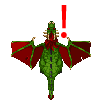
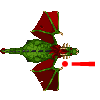
Behavior Tree WIP

diff --git a/esqueleto/behavior_tree.cpp b/esqueleto/behavior_tree.cpp
@@ -6,12 +6,37 @@
 #include "is_close.h"
 #include "pursue.h"
 #include "idle.h"
+#include "attack.h"
+#include "check_hit.h"
+#include "hit.h"
+#include "is_dead.h"
+#include "death.h"
 
 void BehaviorTree::load() {
 	m_rootBehavior = new Selector(this);
-	Sequence* closeBranch = new Sequence(this);
-	closeBranch->AddBehavior(new IsClose(this, 200.0f));
-	closeBranch->AddBehavior(new Pursue(this));
+
+	Sequence* isDeadBranch = new Sequence(this);
+	isDeadBranch->AddBehavior(new IsDead(this));
+	isDeadBranch->AddBehavior(new Death(this));
+	
+	Sequence* receiveHitBranch = new Sequence(this);
+	receiveHitBranch->AddBehavior(new CheckHit(this));
+	receiveHitBranch->AddBehavior(new Hit(this));
+
+	Selector* closeBranch = new Selector(this);
+	Sequence* attackBranch = new Sequence(this);
+	Sequence* chaseBranch = new Sequence(this);
+	closeBranch->AddBehavior(attackBranch);
+	closeBranch->AddBehavior(chaseBranch);
+
+	attackBranch->AddBehavior(new IsClose(this, 50.0f));
+	attackBranch->AddBehavior(new Attack(this));
+
+	chaseBranch->AddBehavior(new IsClose(this, 200.0f));
+	chaseBranch->AddBehavior(new Pursue(this));
+
+	m_rootBehavior->AddBehavior(isDeadBranch);
+	m_rootBehavior->AddBehavior(receiveHitBranch);
 	m_rootBehavior->AddBehavior(closeBranch);
 	m_rootBehavior->AddBehavior(new Idle(this));
 

diff --git a/esqueleto/character.cpp b/esqueleto/character.cpp
@@ -12,7 +12,7 @@
 #include "stateMachine.h"
 #include "behavior_tree.h"
 
-Character::Character() : mLinearVelocity(0.0f, 0.0f), mAngularVelocity(0.0f)
+Character::Character() : mLinearVelocity(0.0f, 0.0f), mAngularVelocity(0.0f), m_isHit(false), m_life(5.0f)
 {
 	RTTI_BEGIN
 		RTTI_EXTEND (MOAIEntity2D)
@@ -87,7 +87,7 @@ void Character::OnUpdate(float step)
 
 	if (mEnemyPosition.DistSqrd(GetLoc()) < 400.0f)
 	{
-		SetLoc(USVec2D(0,0));
+		//SetLoc(USVec2D(0,0));
 	}
 
 
@@ -134,6 +134,7 @@ void Character::RegisterLuaFuncs(MOAILuaState& state)
 	luaL_Reg regTable [] = {
 		{ "setLinearVel",			_setLinearVel},
 		{ "setAngularVel",			_setAngularVel},
+		{ "checkHit",			    _checkHit},
 		{ NULL, NULL }
 	};
 
@@ -156,6 +157,27 @@ int Character::_setAngularVel(lua_State* L)
 	
 	float angle = state.GetValue<float>(2, 0.0f);
 	self->SetAngularVelocity(angle);
+
+	return 0;
+}
+
+int Character::_checkHit(lua_State* L)
+{
+	MOAI_LUA_SETUP(Character, "U")
+
+	float pX = state.GetValue<float>(2, 0.0f);
+	float pY = state.GetValue<float>(3, 0.0f);
+	
+	float selfX = self->GetLoc().mX;
+	float selfY = self->GetLoc().mY;
+
+	if (pX > selfX - 32
+		&& pX < selfX + 32
+		&& pY > selfY - 32
+		&& pY < selfY + 32)
+	{
+		self->m_isHit = true;
+	}
 
 	return 0;
 }

diff --git a/esqueleto/character.h b/esqueleto/character.h
@@ -29,6 +29,10 @@ public:
 	float GetAngularVelocity() const { return mAngularVelocity;}
 	USVec2D GetEnemyPosition() const { return mEnemyPosition; }
 	float GetEnemySpeed() const { return mEnemySpeed; }
+	bool GetIsHit() const { return m_isHit; }
+	void SetIsHit(bool value) { m_isHit = value; }
+	float GetLife() const { return m_life; }
+	void SetLife(float value) { m_life = value; }
 
 	void AddSteering(BaseSteering* steering) { mSteerings.push_back(steering); }
 	void RemoveSteering(BaseSteering* steering) { auto it = std::find(mSteerings.begin(), mSteerings.end(), steering); if (it != mSteerings.end()) mSteerings.erase(it); }
@@ -49,6 +53,8 @@ protected:
 private:
 	USVec2D mEnemyPosition;
 	float mEnemySpeed;
+	bool m_isHit;
+	float m_life;
 	
 	// Lua configuration
 public:
@@ -56,6 +62,7 @@ public:
 private:
 	static int _setLinearVel(lua_State* L);
 	static int _setAngularVel(lua_State* L);
+	static int _checkHit(lua_State* L);
 };
 
 #endif

diff --git a/esqueleto/hit.cpp b/esqueleto/hit.cpp
@@ -1,0 +1,34 @@
+#include <stdafx.h>
+#include "hit.h"
+#include "character.h"
+#include "behavior_tree.h"
+
+Status Hit::update(float step)
+{
+	m_owner->getCharacter()->SetLinearVelocity(0.0f, 0.0f);
+	m_owner->getCharacter()->SetAngularVelocity(0.0f);
+	m_owner->getCharacter()->SetImage(4);
+	m_hitTimer += step;
+	if (m_hitTimer >= 0.5f)
+	{
+		return eSuccess;
+	}
+	else
+	{
+		return eRunning;
+	}
+}
+
+void Hit::onEnter()
+{
+	m_hitTimer = 0;
+
+}
+
+void Hit::onExit()
+{
+	m_owner->getCharacter()->SetImage(0);
+
+	m_owner->getCharacter()->SetIsHit(false);
+	m_owner->getCharacter()->SetLife(m_owner->getCharacter()->GetLife() - 1.0f);
+}

diff --git a/esqueleto/death.cpp b/esqueleto/death.cpp
@@ -1,0 +1,33 @@
+#include <stdafx.h>
+#include "death.h"
+#include "character.h"
+#include "behavior_tree.h"
+
+Status Death::update(float step)
+{
+	m_owner->getCharacter()->SetLinearVelocity(0.0f, 0.0f);
+	m_owner->getCharacter()->SetAngularVelocity(0.0f);
+	m_owner->getCharacter()->SetImage(1);
+	m_respawnTimer += step;
+	if (m_respawnTimer >= 5.0f)
+	{
+		return eSuccess;
+	}
+	else
+	{
+		return eRunning;
+	}
+}
+
+void Death::onEnter()
+{
+	m_respawnTimer = 0;
+
+}
+
+void Death::onExit()
+{
+	m_owner->getCharacter()->SetImage(0);
+	m_owner->getCharacter()->SetLife(5.0f);
+	m_owner->getCharacter()->SetLoc(USVec2D(0, 0));
+}

diff --git a/esqueleto/pursue.cpp b/esqueleto/pursue.cpp
@@ -23,6 +23,7 @@ Status Pursue::update(float step)
 
 	USVec2D linearVelocity = m_owner->getCharacter()->GetLinearVelocity() + linearAcceleration * step;
 	m_owner->getCharacter()->SetLinearVelocity(linearVelocity.mX, linearVelocity.mY);
+	return eSuccess;
 
 	float sqrdDist = m_owner->getCharacter()->GetEnemyPosition().DistSqrd(m_owner->getCharacter()->GetLoc());
 	if (sqrdDist  < 500.0f)
@@ -33,8 +34,4 @@ Status Pursue::update(float step)
 	{
 		return eRunning;
 	}
-}
-
-void Pursue::onExit() {
-	m_Status = eInvalid;
 }

diff --git a/esqueleto/attack.cpp b/esqueleto/attack.cpp
@@ -1,17 +1,12 @@
 #include <stdafx.h>
-#include "idle.h"
+#include "attack.h"
 #include "character.h"
 #include "behavior_tree.h"
 
-void Idle::onEnter()
-{
-	
-}
-
-Status Idle::update(float step)
+Status Attack::update(float step)
 {
 	m_owner->getCharacter()->SetLinearVelocity(0.0f, 0.0f);
 	m_owner->getCharacter()->SetAngularVelocity(0.0f);
-	m_owner->getCharacter()->SetImage(0);
+	m_owner->getCharacter()->SetImage(2);
 	return eSuccess;
 }

diff --git a/esqueleto/death.h b/esqueleto/death.h
@@ -1,0 +1,16 @@
+#pragma once
+#include "behavior.h"
+
+class BehaviorTree;
+
+class Death : public Behavior
+{
+public:
+	Death(BehaviorTree* owner) : Behavior(owner) {}
+
+protected:
+	virtual Status update(float step) override;
+	virtual void onEnter() override;
+	virtual void onExit() override;
+	float m_respawnTimer;
+};

diff --git a/esqueleto/hit.h b/esqueleto/hit.h
@@ -1,0 +1,16 @@
+#pragma once
+#include "behavior.h"
+
+class BehaviorTree;
+
+class Hit : public Behavior
+{
+public:
+	Hit(BehaviorTree* owner) : Behavior(owner) {}
+
+protected:
+	virtual Status update(float step) override;
+	virtual void onEnter() override;
+	virtual void onExit() override;
+	float m_hitTimer;
+};

diff --git a/esqueleto/is_dead.cpp b/esqueleto/is_dead.cpp
@@ -1,0 +1,16 @@
+#include <stdafx.h>
+#include "is_dead.h"
+#include "character.h"
+#include "behavior_tree.h"
+
+Status IsDead::update(float step)
+{
+	if (m_owner->getCharacter()->GetLife() <= 0.0f)
+	{
+		return eSuccess;
+	}
+	else
+	{
+		return eFail;
+	}
+}

diff --git a/esqueleto/check_hit.cpp b/esqueleto/check_hit.cpp
@@ -1,0 +1,16 @@
+#include <stdafx.h>
+#include "check_hit.h"
+#include "character.h"
+#include "behavior_tree.h"
+
+Status CheckHit::update(float step)
+{
+	if (m_owner->getCharacter()->GetIsHit())
+	{
+		return eSuccess;
+	}
+	else
+	{
+		return eFail;
+	}
+}

diff --git a/esqueleto/behavior.h b/esqueleto/behavior.h
@@ -18,11 +18,10 @@ public:
 protected:
 	virtual Status update(float step) = 0;
 	virtual void onEnter() {}
-	virtual void onExit() {}
+	virtual void onExit()  {}
 
 	BehaviorTree* m_owner;
-	Status m_Status;
 
 private:
-
+	Status m_Status;
 };
